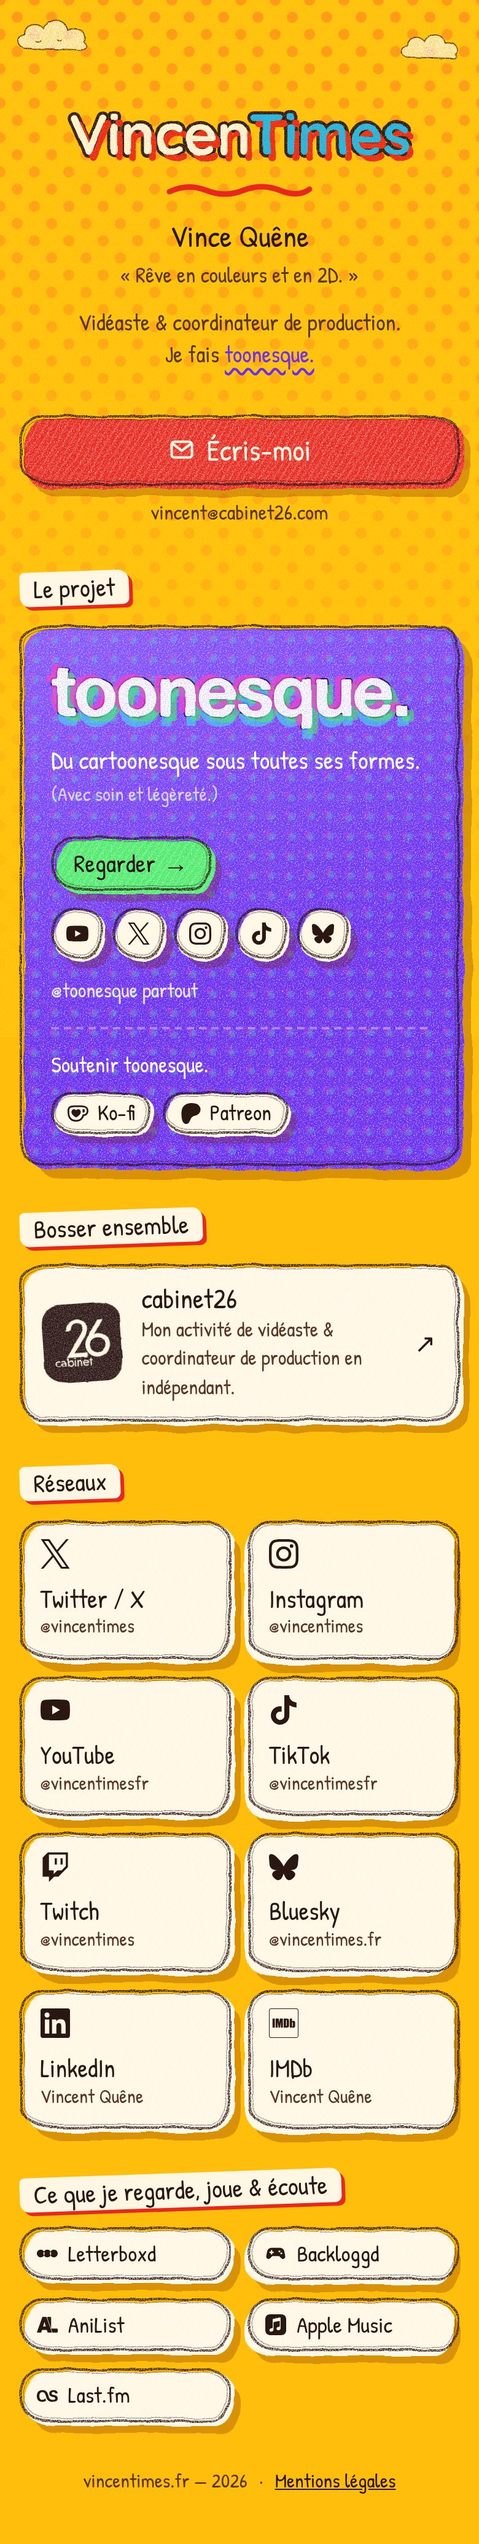
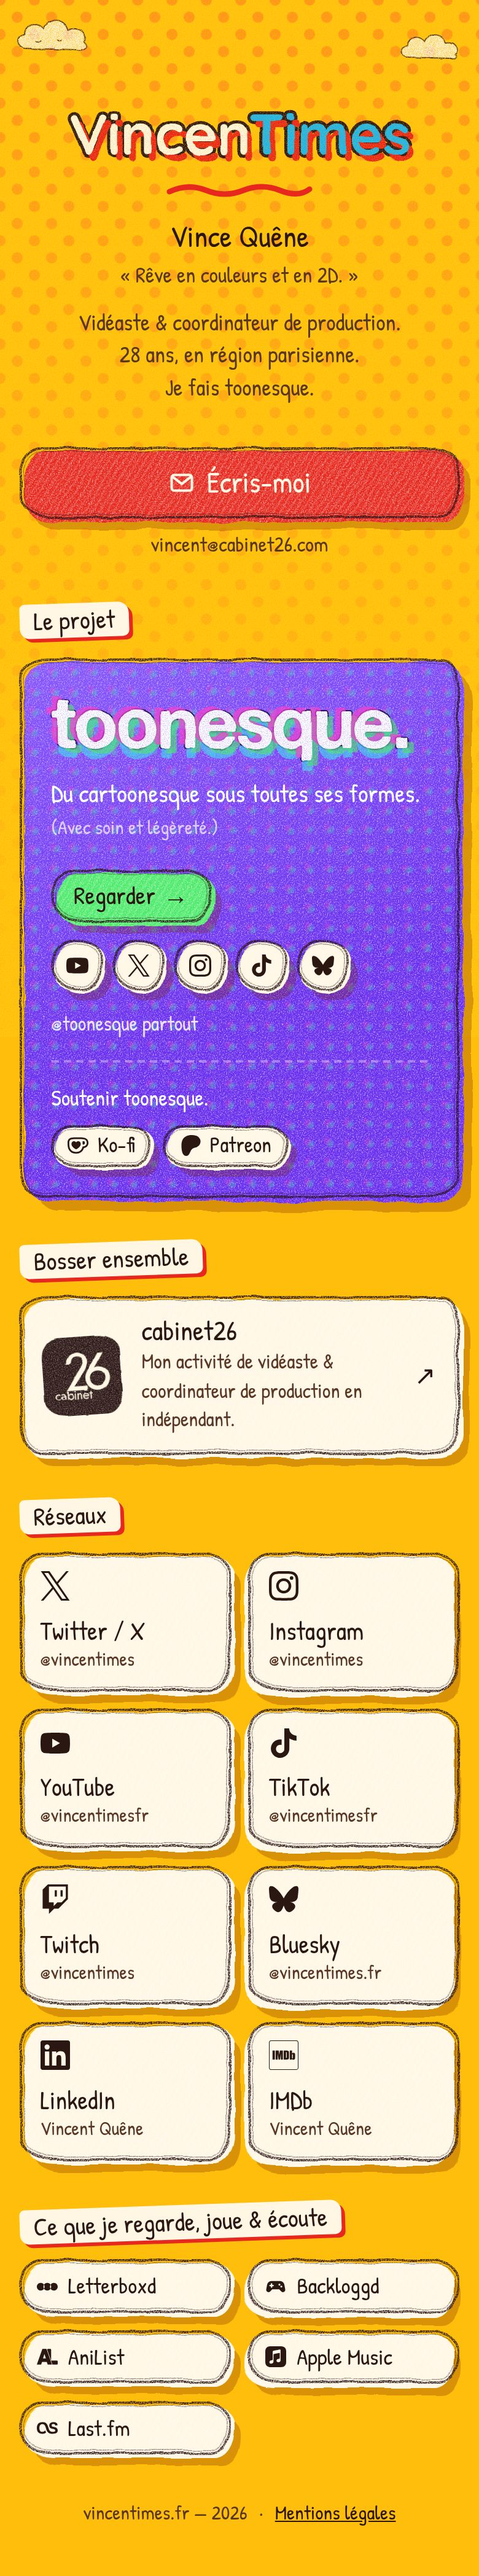
Bio : 28 ans, région parisienne, sans lien ; description du site mise à jour
- Bio : « 28 ans, en région parisienne. », « Je fais toonesque. » sans lien
- Description Google / partages : nouvelle accroche (145 caractères)
- JSON-LD : homeLocation région parisienne

Claude-Session: https://claude.ai/code/session_01LKzVBaJrLPfnWSfihrEFNx

diff --git a/index.html b/index.html
@@ -4,7 +4,7 @@
   <meta charset="UTF-8">
   <meta name="viewport" content="width=device-width, initial-scale=1.0">
   <title>VincenTimes — Vince Quêne</title>
-  <meta name="description" content="Vince Quêne — Vidéaste & coordinateur de production. Créateur de toonesque., essais vidéo sur l'animation, le jeu vidéo et la pop culture.">
+  <meta name="description" content="Vince Quêne, 28 ans, vidéaste & coordinateur de production en région parisienne. Créateur de toonesque. : du cartoonesque sous toutes ses formes.">
   <meta name="author" content="Vincent Quêne">
   <meta name="theme-color" content="#ffbe0b">
   <link rel="canonical" href="https://vincentimes.fr/">
@@ -14,7 +14,7 @@
   <meta property="og:url" content="https://vincentimes.fr/">
   <meta property="og:site_name" content="VincenTimes">
   <meta property="og:title" content="VincenTimes — Vince Quêne">
-  <meta property="og:description" content="Vidéaste & coordinateur de production. Créateur de toonesque., essais vidéo sur l'animation, le jeu vidéo et la pop culture.">
+  <meta property="og:description" content="Vince Quêne, 28 ans, vidéaste & coordinateur de production en région parisienne. Créateur de toonesque. : du cartoonesque sous toutes ses formes.">
   <meta property="og:image" content="https://vincentimes.fr/og-image.jpg">
   <meta property="og:image:width" content="1200">
   <meta property="og:image:height" content="630">
@@ -26,7 +26,7 @@
   <meta name="twitter:site" content="@vincentimes">
   <meta name="twitter:creator" content="@vincentimes">
   <meta name="twitter:title" content="VincenTimes — Vince Quêne">
-  <meta name="twitter:description" content="Vidéaste & coordinateur de production. Créateur de toonesque., essais vidéo sur l'animation, le jeu vidéo et la pop culture.">
+  <meta name="twitter:description" content="Vince Quêne, 28 ans, vidéaste & coordinateur de production en région parisienne. Créateur de toonesque. : du cartoonesque sous toutes ses formes.">
   <meta name="twitter:image" content="https://vincentimes.fr/og-image.jpg">
 
   <link rel="icon" type="image/png" sizes="128x128" href="/favicon.png">
@@ -45,6 +45,7 @@
     "name": "Vincent Quêne",
     "alternateName": ["Vince Quêne", "VincenTimes"],
     "jobTitle": "Vidéaste & coordinateur de production",
+    "homeLocation": { "@type": "Place", "name": "Région parisienne, France" },
     "url": "https://vincentimes.fr",
     "image": "https://vincentimes.fr/og-image.jpg",
     "sameAs": [
@@ -126,7 +127,7 @@
         <div class="separator" aria-hidden="true"></div>
         <p class="name">Vince Quêne</p>
         <p class="tagline">« Rêve en couleurs et en 2D. »</p>
-        <p class="bio">Vidéaste &amp; coordinateur de production.<br>Je fais <a href="https://toonesque.com" target="_blank" rel="noopener">toonesque.</a></p>
+        <p class="bio">Vidéaste &amp; coordinateur de production.<br>28 ans, en région parisienne.<br>Je fais toonesque.</p>
       </header>
 
       <section class="reveal" style="--i:1" aria-label="Contact">
